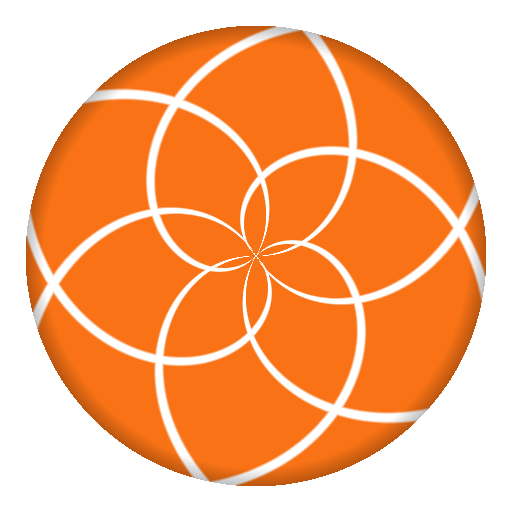
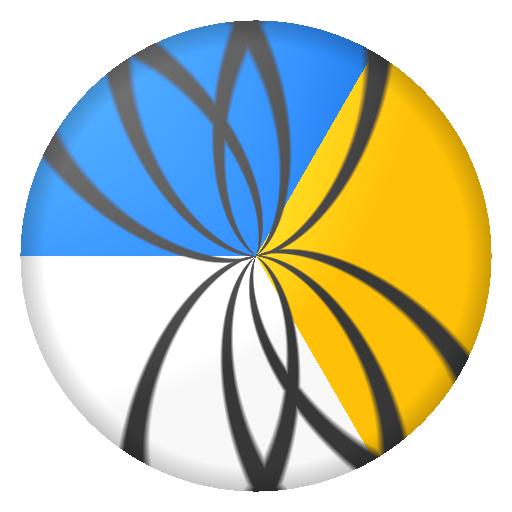
Melhora compartilhamento, ícones e créditos do placar.
Adiciona botão WhatsApp, corrige layout do QR Code, atualiza ícones de bola de vôlei e exibe crédito discreto ao autor no topo e no modal.

diff --git a/styles.css b/styles.css
@@ -123,6 +123,7 @@ html, body {
    Scoreboard — duas metades em coluna (portrait) ou linha (landscape)
    -------------------------------------------------------------------------- */
 .scoreboard {
+  position: relative;
   display: grid;
   grid-template-rows: 1fr var(--divider-w) 1fr;
   grid-template-columns: 1fr;
@@ -158,6 +159,83 @@ html, body {
     width: 100%;
     height: auto;
   }
+}
+
+/* Crédito do autor */
+.credit {
+  margin: 0;
+  font-family: var(--font-ui);
+  line-height: 1.3;
+}
+
+.credit a {
+  color: inherit;
+  text-decoration: none;
+  font-weight: 600;
+}
+
+.credit a:hover,
+.credit a:focus-visible {
+  text-decoration: underline;
+}
+
+.credit--scoreboard {
+  position: fixed;
+  top: calc(var(--toolbar-h) + env(safe-area-inset-top, 0px) + 0.15rem);
+  left: 50%;
+  transform: translateX(-50%);
+  z-index: 95;
+  pointer-events: auto;
+  margin: 0;
+  padding: 0;
+  background: none;
+  border: none;
+  border-radius: 0;
+  box-shadow: none;
+  backdrop-filter: none;
+  -webkit-backdrop-filter: none;
+  font-size: clamp(0.6rem, 2.2vw, 0.8rem);
+  font-weight: 500;
+  color: rgba(255, 255, 255, 0.5);
+  letter-spacing: 0.02em;
+  line-height: 1.2;
+  text-align: center;
+  white-space: nowrap;
+  opacity: 0.45;
+}
+
+.credit--scoreboard a {
+  color: inherit;
+  font-weight: 500;
+}
+
+.credit--scoreboard a:hover,
+.credit--scoreboard a:focus-visible {
+  opacity: 1;
+}
+
+@media (max-height: 500px) {
+  .credit--scoreboard {
+    display: none;
+  }
+}
+
+.credit--share {
+  text-align: center;
+  font-size: clamp(0.6rem, 2.2vw, 0.8rem);
+  font-weight: 500;
+  color: var(--text-muted);
+  letter-spacing: 0.02em;
+  line-height: 1.2;
+  opacity: 0.65;
+  padding-top: 1rem;
+  margin-top: 0.25rem;
+  border-top: 1px solid rgba(255, 255, 255, 0.08);
+}
+
+.credit--share a {
+  color: inherit;
+  font-weight: 500;
 }
 
 .team {
@@ -434,8 +512,12 @@ html, body {
 }
 
 .modal-body--center {
+  display: flex;
+  flex-direction: column;
   align-items: center;
   text-align: center;
+  gap: 0.75rem;
+  width: 100%;
 }
 
 .modal-footer {
@@ -607,6 +689,29 @@ html, body {
   color: var(--text);
 }
 
+.btn-whatsapp {
+  display: inline-flex;
+  align-items: center;
+  justify-content: center;
+  gap: 0.5rem;
+  background: #25d366;
+  color: #fff;
+  width: 100%;
+  max-width: 280px;
+}
+
+.btn-whatsapp:hover,
+.btn-whatsapp:focus-visible {
+  background: #20bd5a;
+  color: #fff;
+}
+
+.modal-body--center .btn,
+.share-mobile-only .btn {
+  width: 100%;
+  max-width: 280px;
+}
+
 /* Compartilhar / QR */
 .share-desc {
   color: var(--text-muted);
@@ -615,15 +720,30 @@ html, body {
 }
 
 .qrcode {
+  display: inline-block;
   padding: 12px;
   background: #fff;
   border-radius: 8px;
   line-height: 0;
+  width: fit-content;
+  max-width: 100%;
 }
 
 .qrcode canvas,
 .qrcode img {
   display: block;
+  width: 200px;
+  height: 200px;
+}
+
+/* Após gerar, a lib oculta o canvas e exibe o img — só o canvas oculto não deve ocupar espaço */
+.qrcode canvas[style*="display: none"],
+.qrcode canvas[style*="display:none"] {
+  display: none !important;
+  width: 0 !important;
+  height: 0 !important;
+  padding: 0;
+  margin: 0;
 }
 
 .share-url {

diff --git a/app.js b/app.js
@@ -78,6 +78,8 @@
     shareUrlMobile: document.getElementById('share-url-mobile'),
     btnCopyUrl: document.getElementById('btn-copy-url'),
     btnCopyUrlMobile: document.getElementById('btn-copy-url-mobile'),
+    btnWhatsapp: document.getElementById('btn-whatsapp'),
+    btnWhatsappMobile: document.getElementById('btn-whatsapp-mobile'),
     inputRename: document.getElementById('input-rename'),
     btnSaveRename: document.getElementById('btn-save-rename')
   };
@@ -604,8 +606,19 @@
     });
   }
 
+  function getShareUrl() {
+    return window.location.origin + '/';
+  }
+
+  function shareOnWhatsApp() {
+    var url = getShareUrl();
+    var text = 'Placar de Vôlei — acesse e instale no celular: ' + url;
+    var waUrl = 'https://wa.me/?text=' + encodeURIComponent(text);
+    window.open(waUrl, '_blank', 'noopener,noreferrer');
+  }
+
   function copyShareUrl(feedbackEl) {
-    var url = window.location.origin + '/';
+    var url = getShareUrl();
     var btn = feedbackEl || el.btnCopyUrl;
 
     function showCopied() {
@@ -632,7 +645,7 @@
   }
 
   function setShareUrls() {
-    var url = window.location.origin + '/';
+    var url = getShareUrl();
     el.shareUrl.textContent = url;
     if (el.shareUrlMobile) el.shareUrlMobile.textContent = url;
   }
@@ -846,6 +859,14 @@
 
     if (el.btnCopyUrlMobile) {
       el.btnCopyUrlMobile.addEventListener('click', function () { copyShareUrl(el.btnCopyUrlMobile); });
+    }
+
+    if (el.btnWhatsapp) {
+      el.btnWhatsapp.addEventListener('click', shareOnWhatsApp);
+    }
+
+    if (el.btnWhatsappMobile) {
+      el.btnWhatsappMobile.addEventListener('click', shareOnWhatsApp);
     }
 
     /* Impede que toque no nome dispare incremento de ponto */

diff --git a/index.html b/index.html
@@ -35,6 +35,10 @@
     </button>
   </header>
 
+  <p class="credit credit--scoreboard" role="contentinfo">
+    Created by <a href="https://www.alexmaciel.dev.br/" target="_blank" rel="noopener noreferrer">Alex Maciel</a>
+  </p>
+
   <!-- Placar principal: duas metades tocáveis -->
   <main class="scoreboard" id="scoreboard" role="main">
     <section class="team team-a" id="team-a" data-team="a" aria-label="Time A">
@@ -151,6 +155,10 @@
           <div id="qrcode" class="qrcode" aria-label="QR Code do aplicativo"></div>
           <p class="share-url" id="share-url"></p>
           <button type="button" class="btn btn-secondary" id="btn-copy-url">Copiar link</button>
+          <button type="button" class="btn btn-whatsapp" id="btn-whatsapp">
+            <svg viewBox="0 0 24 24" width="20" height="20" aria-hidden="true"><path fill="currentColor" d="M17.472 14.382c-.297-.149-1.758-.867-2.03-.967-.273-.099-.471-.148-.67.15-.197.297-.767.966-.94 1.164-.173.199-.347.223-.644.075-.297-.15-1.255-.463-2.39-1.475-.883-.788-1.48-1.761-1.653-2.059-.173-.297-.018-.458.13-.606.134-.133.298-.347.446-.52.149-.174.198-.298.298-.497.099-.198.05-.371-.025-.52-.075-.149-.669-1.612-.916-2.207-.242-.579-.487-.5-.669-.51-.173-.008-.371-.01-.57-.01-.198 0-.52.074-.792.372-.272.297-1.04 1.016-1.04 2.479 0 1.462 1.065 2.875 1.213 3.074.149.198 2.096 3.2 5.077 4.487.709.306 1.262.489 1.694.625.712.227 1.36.195 1.871.118.571-.085 1.758-.719 2.006-1.413.248-.694.248-1.289.173-1.413-.074-.124-.272-.198-.57-.347m-5.421 7.403h-.004a9.87 9.87 0 01-5.031-1.378l-.361-.214-3.741.982.998-3.648-.235-.374a9.86 9.86 0 01-1.51-5.26c.001-5.45 4.436-9.884 9.888-9.884 2.64 0 5.122 1.03 6.988 2.898a9.825 9.825 0 012.893 6.994c-.003 5.45-4.435 9.884-9.885 9.884m8.413-18.297A11.815 11.815 0 0012.05 0C5.495 0 .16 5.335.157 11.892c0 2.096.547 4.142 1.588 5.945L.057 24l6.305-1.654a11.882 11.882 0 005.683 1.448h.005c6.554 0 11.89-5.335 11.893-11.893a11.821 11.821 0 00-3.48-8.413z"/></svg>
+            Compartilhar no WhatsApp
+          </button>
         </div>
       </section>
 
@@ -186,8 +194,16 @@
         <div class="share-mobile-only hidden" id="share-mobile-only">
           <p class="share-url" id="share-url-mobile"></p>
           <button type="button" class="btn btn-secondary" id="btn-copy-url-mobile">Copiar link para compartilhar</button>
+          <button type="button" class="btn btn-whatsapp" id="btn-whatsapp-mobile">
+            <svg viewBox="0 0 24 24" width="20" height="20" aria-hidden="true"><path fill="currentColor" d="M17.472 14.382c-.297-.149-1.758-.867-2.03-.967-.273-.099-.471-.148-.67.15-.197.297-.767.966-.94 1.164-.173.199-.347.223-.644.075-.297-.15-1.255-.463-2.39-1.475-.883-.788-1.48-1.761-1.653-2.059-.173-.297-.018-.458.13-.606.134-.133.298-.347.446-.52.149-.174.198-.298.298-.497.099-.198.05-.371-.025-.52-.075-.149-.669-1.612-.916-2.207-.242-.579-.487-.5-.669-.51-.173-.008-.371-.01-.57-.01-.198 0-.52.074-.792.372-.272.297-1.04 1.016-1.04 2.479 0 1.462 1.065 2.875 1.213 3.074.149.198 2.096 3.2 5.077 4.487.709.306 1.262.489 1.694.625.712.227 1.36.195 1.871.118.571-.085 1.758-.719 2.006-1.413.248-.694.248-1.289.173-1.413-.074-.124-.272-.198-.57-.347m-5.421 7.403h-.004a9.87 9.87 0 01-5.031-1.378l-.361-.214-3.741.982.998-3.648-.235-.374a9.86 9.86 0 01-1.51-5.26c.001-5.45 4.436-9.884 9.888-9.884 2.64 0 5.122 1.03 6.988 2.898a9.825 9.825 0 012.893 6.994c-.003 5.45-4.435 9.884-9.885 9.884m8.413-18.297A11.815 11.815 0 0012.05 0C5.495 0 .16 5.335.157 11.892c0 2.096.547 4.142 1.588 5.945L.057 24l6.305-1.654a11.882 11.882 0 005.683 1.448h.005c6.554 0 11.89-5.335 11.893-11.893a11.821 11.821 0 00-3.48-8.413z"/></svg>
+            Compartilhar no WhatsApp
+          </button>
         </div>
       </section>
+
+      <p class="credit credit--share">
+        Created by <a href="https://www.alexmaciel.dev.br/" target="_blank" rel="noopener noreferrer">Alex Maciel</a>
+      </p>
     </div>
   </dialog>
 

diff --git a/sw.js b/sw.js
@@ -3,7 +3,7 @@
  * Cache-first para assets estáticos; fallback para offline.html em navegação sem rede.
  * Incremente CACHE_NAME a cada deploy para invalidar caches antigos.
  */
-var CACHE_NAME = 'scoreboard-v1';
+var CACHE_NAME = 'scoreboard-v2';
 
 var PRECACHE_URLS = [
   '/',

diff --git a/scripts/generate-icons.py b/scripts/generate-icons.py
@@ -1,5 +1,5 @@
 #!/usr/bin/env python3
-"""Gera ícones PNG para o PWA sem dependências externas."""
+"""Gera ícones PNG de bola de vôlei para o PWA sem dependências externas."""
 
 import struct
 import zlib
@@ -7,6 +7,13 @@ import math
 import os
 
 OUT_DIR = os.path.join(os.path.dirname(__file__), "..", "icons")
+
+# Cores clássicas de bola de vôlei
+COLOR_WHITE = (248, 248, 248)
+COLOR_BLUE = (22, 115, 224)
+COLOR_YELLOW = (255, 193, 7)
+COLOR_SEAM = (55, 55, 55)
+COLOR_BG_MASK = (13, 17, 23, 255)
 
 
 def png_chunk(chunk_type, data):
@@ -16,7 +23,6 @@ def png_chunk(chunk_type, data):
 
 
 def write_png(path, size, pixels):
-    """pixels: lista de (r,g,b,a) por linha, row-major."""
     raw = b""
     for y in range(size):
         raw += b"\x00"
@@ -40,10 +46,24 @@ def lerp(a, b, t):
     return a + (b - a) * t
 
 
+def mix(c1, c2, t):
+    return (
+        int(lerp(c1[0], c2[0], t)),
+        int(lerp(c1[1], c2[1], t)),
+        int(lerp(c1[2], c2[2], t)),
+    )
+
+
+def seam_distance(angle, dist, phase):
+    """Curva em forma de costura de painel de vôlei."""
+    curve = math.sin(angle * 2.0 + phase) * (0.35 + dist * 0.55)
+    return abs(dist - (0.25 + curve))
+
+
 def draw_icon(size, maskable=False):
     pixels = []
     cx, cy = size / 2, size / 2
-    pad = size * 0.12 if maskable else size * 0.05
+    pad = size * 0.10 if maskable else size * 0.04
     radius = size / 2 - pad
 
     for y in range(size):
@@ -53,35 +73,51 @@ def draw_icon(size, maskable=False):
 
             if dist > radius:
                 if maskable:
-                    pixels.append((13, 17, 23, 255))
+                    pixels.append(COLOR_BG_MASK)
                 else:
                     pixels.append((0, 0, 0, 0))
                 continue
 
-            # Fundo laranja escuro
-            r, g, b = 249, 115, 22
-
-            # Padrão de linhas da bola de vôlei
             angle = math.atan2(dy, dx)
             norm = dist / radius
-            wave = abs(math.sin(angle * 3 + norm * 4))
-            wave2 = abs(math.cos(angle * 2 - norm * 5))
-            line = min(wave, wave2)
 
-            if line < 0.08:
-                r, g, b = 255, 255, 255
-            elif line < 0.14:
-                t = (line - 0.08) / 0.06
-                r = int(lerp(255, r, t))
-                g = int(lerp(255, g, t))
-                b = int(lerp(255, b, t))
+            # Três painéis clássicos (azul / amarelo / branco)
+            sector = (angle + math.pi) / (2 * math.pi) * 3.0
+            panel = int(sector) % 3
 
-            # Sombra suave na borda
-            edge = 1 - (radius - dist) / (radius * 0.08)
+            if panel == 0:
+                base = COLOR_BLUE
+            elif panel == 1:
+                base = COLOR_YELLOW
+            else:
+                base = COLOR_WHITE
+
+            # Costuras escuras entre painéis
+            s1 = seam_distance(angle, norm, 0.0)
+            s2 = seam_distance(angle + 2.094, norm, 1.2)
+            s3 = seam_distance(angle - 2.094, norm, 2.1)
+            seam = min(s1, s2, s3)
+
+            if seam < 0.045:
+                r, g, b = COLOR_SEAM
+            elif seam < 0.08:
+                t = (seam - 0.045) / 0.035
+                r, g, b = mix(COLOR_SEAM, base, t)
+            else:
+                r, g, b = base
+
+            # Brilho suave (luz vinda do canto superior esquerdo)
+            light = max(0, (1 - norm) * 0.12 + (-dx - dy) / (radius * 6))
+            r = min(255, int(r + light * 255))
+            g = min(255, int(g + light * 255))
+            b = min(255, int(b + light * 255))
+
+            # Sombra na borda
+            edge = max(0, 1 - (radius - dist) / (radius * 0.1))
             if edge > 0:
-                r = int(r * (1 - edge * 0.25))
-                g = int(g * (1 - edge * 0.25))
-                b = int(b * (1 - edge * 0.25))
+                r = int(r * (1 - edge * 0.2))
+                g = int(g * (1 - edge * 0.2))
+                b = int(b * (1 - edge * 0.2))
 
             pixels.append((max(0, min(255, r)), max(0, min(255, g)), max(0, min(255, b)), 255))
 